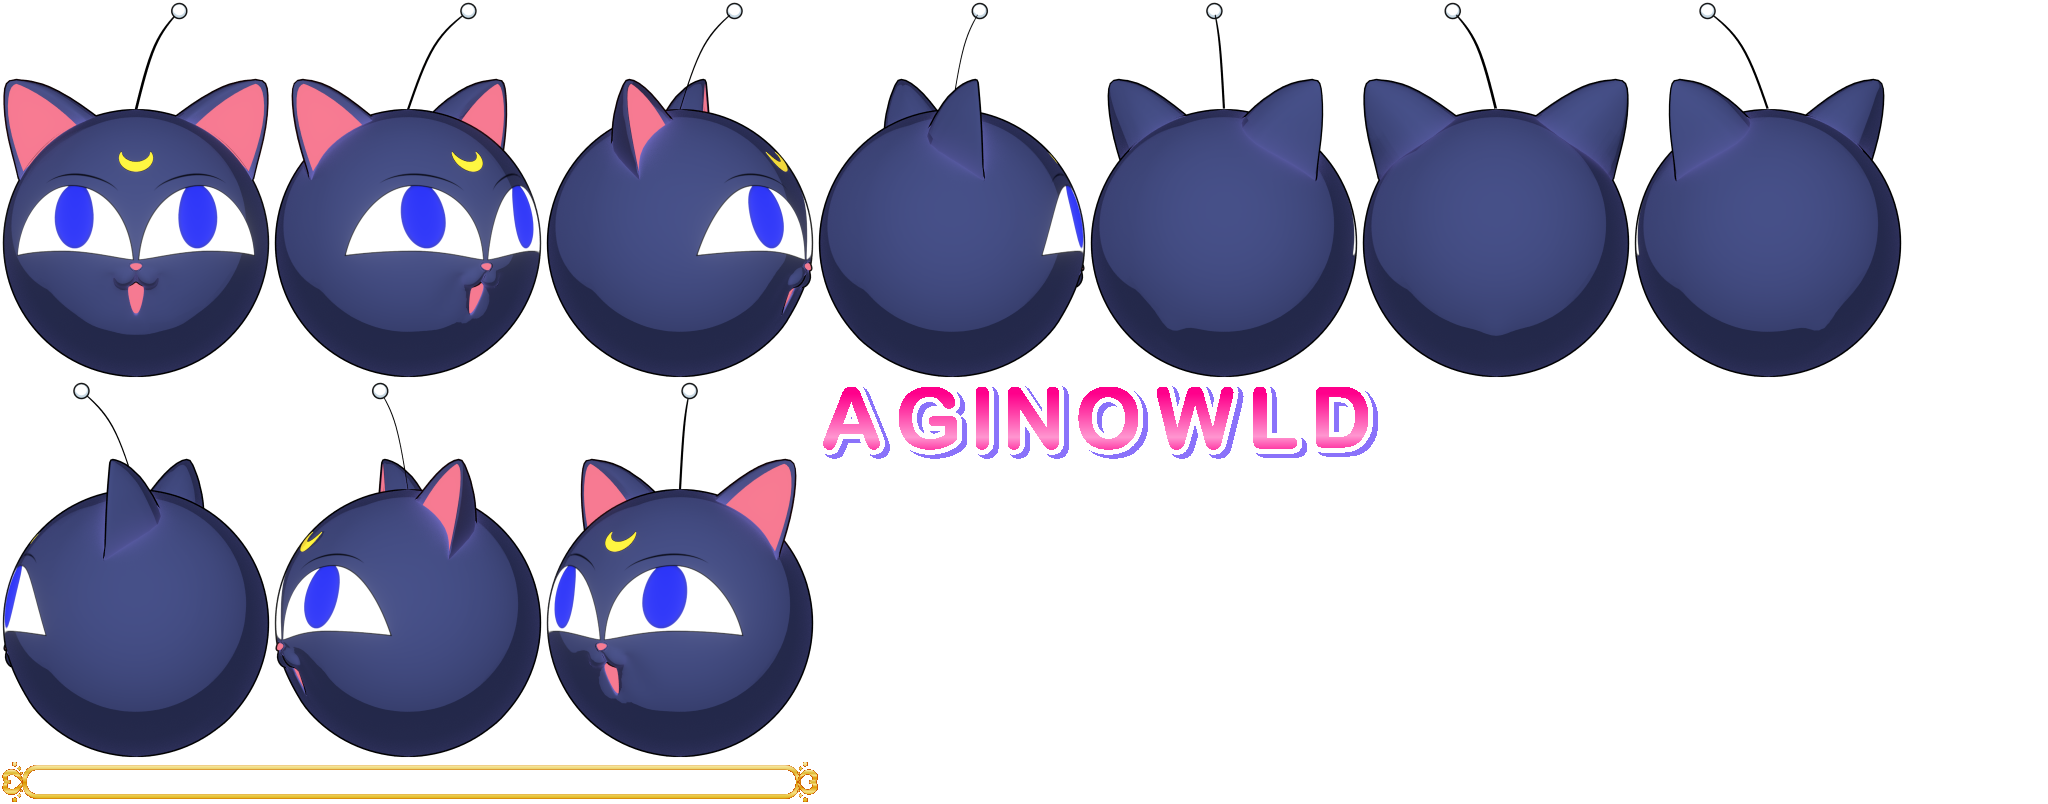
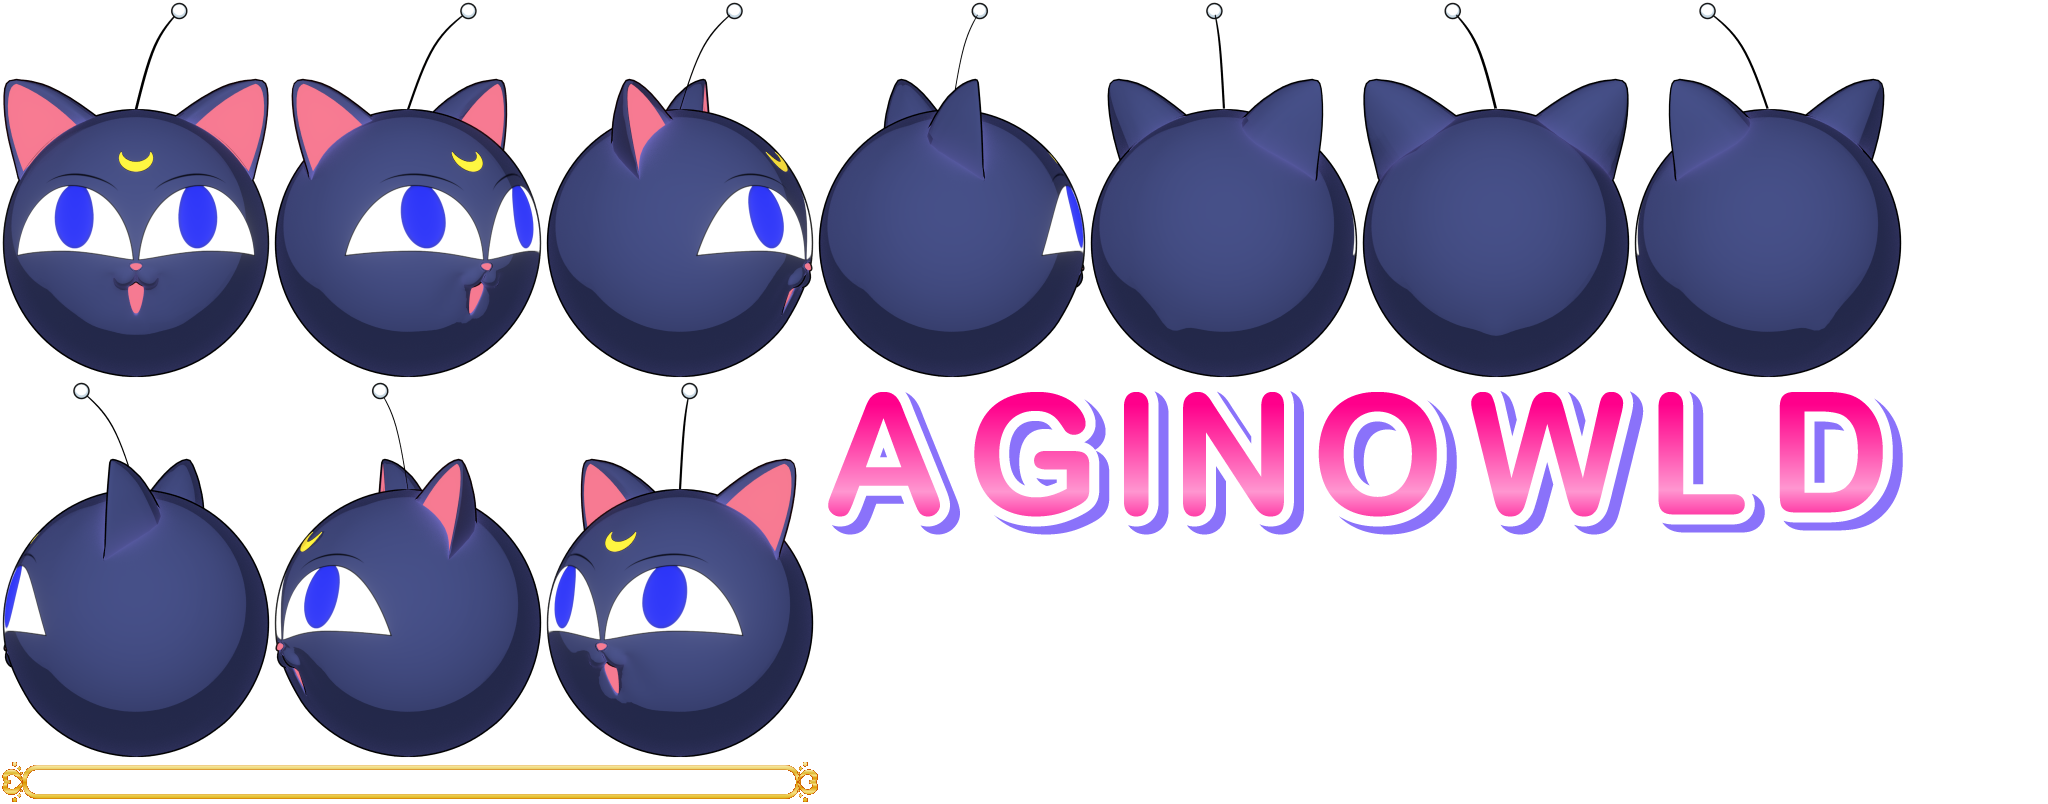
0.23.73 White loading page, 2x letters and centered progress

Changed region(s): [[0.4062, 0.4664, 0.9375, 0.6841]]

diff --git a/Engine/loading-screen.js b/Engine/loading-screen.js
@@ -1,35 +1,35 @@
-import {letterBouncePose} from './letter-animation.js?v=02372';
+import {letterBouncePose} from './letter-animation.js?v=02373';
 
 let assetsPromise;
 export function preloadLoadingAssets(){
- if(!assetsPromise)assetsPromise=fetch(new URL('../Data/Loading/loading-atlas.json?v=02372',import.meta.url)).then(response=>{if(!response.ok)throw Error('Loading artwork HTTP '+response.status);return response.json()}).then(async config=>{const image=new Image();image.src=new URL('../Data/Loading/'+config.atlas+'?v=02372',import.meta.url).href;await image.decode();const atlas=await createImageBitmap(image),staging=document.createElement('canvas');staging.width=config.size[0];staging.height=config.size[1];staging.getContext('2d').drawImage(atlas,0,0);return {config,atlas}});
+ if(!assetsPromise)assetsPromise=fetch(new URL('../Data/Loading/loading-atlas.json?v=02373',import.meta.url)).then(response=>{if(!response.ok)throw Error('Loading artwork HTTP '+response.status);return response.json()}).then(async config=>{const image=new Image();image.src=new URL('../Data/Loading/'+config.atlas+'?v=02373',import.meta.url).href;await image.decode();const atlas=await createImageBitmap(image),staging=document.createElement('canvas');staging.width=config.size[0];staging.height=config.size[1];staging.getContext('2d').drawImage(atlas,0,0);return {config,atlas}});
  return assetsPromise;
 }
 
-export function loadingLetterPose(tick,index,duration=58){return letterBouncePose(tick-index*duration,duration)}
+export function loadingLetterPose(tick,index,duration=58){const age=tick-index*duration;if(age<0||age>=duration)return {alpha:1,y:0};return {alpha:1,y:letterBouncePose(age,duration).y-36*Math.max(0,1-age/22)}}
 
 export function createLoadingScreen(parent=document.body,id='palaceLoading'){
- const view=document.createElement('section');view.id=id;view.hidden=true;view.style.cssText='position:fixed;inset:0;z-index:90;background:#000;color:#fff;display:none;touch-action:none';view.setAttribute('aria-label','Loading');view.setAttribute('aria-busy','true');
+ const view=document.createElement('section');view.id=id;view.hidden=true;view.style.cssText='position:fixed;inset:0;z-index:90;background:#fff;color:#222;display:none;touch-action:none';view.setAttribute('aria-label','Loading');view.setAttribute('aria-busy','true');
  const canvas=document.createElement('canvas');canvas.style.cssText='position:absolute;inset:0;width:100%;height:100%;pointer-events:none';view.appendChild(canvas);const context=canvas.getContext('2d');
  const content=document.createElement('div');content.style.cssText='position:absolute;width:1280px;height:720px;transform-origin:0 0;pointer-events:none';view.appendChild(content);
  const label=document.createElement('div');label.textContent='NOW LOADING';label.setAttribute('role','status');content.appendChild(label);
  const bar=document.createElement('div');bar.style.cssText='position:absolute;width:1px;height:1px;overflow:hidden;clip-path:inset(50%)';bar.setAttribute('role','progressbar');bar.setAttribute('aria-label','Loading progress');bar.setAttribute('aria-valuemin','0');bar.setAttribute('aria-valuemax','100');content.appendChild(bar);
  const fill=document.createElement('div');fill.style.cssText='height:100%;width:0%;background:#FF3EA7';bar.appendChild(fill);
- const percentage=document.createElement('div');percentage.style.cssText='position:absolute;left:640px;top:520px;transform:translateX(-50%);font:16px system-ui;color:white';percentage.setAttribute('aria-hidden','true');content.appendChild(percentage);
+ const percentage=document.createElement('div');percentage.style.cssText='position:absolute;left:640px;top:480px;transform:translate(-50%,-50%);font:bold 16px system-ui;color:#222';percentage.setAttribute('aria-hidden','true');content.appendChild(percentage);
  const exit=document.createElement('button');exit.textContent='返回';exit.hidden=true;exit.style.cssText='position:absolute;left:640px;top:600px;transform:translateX(-50%);border:1px solid #777;background:#000;color:#fff;padding:8px 20px;pointer-events:auto';content.appendChild(exit);
  const testControls=document.createElement('div');testControls.hidden=true;testControls.style.cssText='position:absolute;right:20px;top:20px;pointer-events:auto';content.appendChild(testControls);
  const reload=document.createElement('button');reload.id=id+'Reload';reload.textContent='重新載入';reload.style.cssText='display:block;width:150px;margin-bottom:10px;padding:9px;border:1px solid #ff3ea7;border-radius:6px;background:#15101b;color:white;font:16px system-ui';testControls.appendChild(reload);
  const confirm=document.createElement('button');confirm.id=id+'Confirm';confirm.textContent='確定';confirm.style.cssText=reload.style.cssText;testControls.appendChild(confirm);parent.appendChild(view);
  let assets,progress=0,tick=0,lastFrame,animationFrame,test=false,onExit;
  const ready=preloadLoadingAssets().then(value=>{assets=value;if(!view.hidden)render();return value});ready.catch(error=>{if(!view.hidden)fail(error)});
- function resize(){const ratio=devicePixelRatio||1,width=Math.round(innerWidth*ratio),height=Math.round(innerHeight*ratio);if(canvas.width!==width||canvas.height!==height){canvas.width=width;canvas.height=height}const scale=Math.min(innerWidth/1280,innerHeight/720),left=(innerWidth-1280*scale)/2,top=(innerHeight-720*scale)/2;content.style.left=left+'px';content.style.top=top+'px';content.style.transform='scale('+scale+')';context.setTransform(ratio,0,0,ratio,0,0);context.fillStyle='#000';context.fillRect(0,0,innerWidth,innerHeight);context.translate(left,top);context.scale(scale,scale)}
+ function resize(){const ratio=devicePixelRatio||1,width=Math.round(innerWidth*ratio),height=Math.round(innerHeight*ratio);if(canvas.width!==width||canvas.height!==height){canvas.width=width;canvas.height=height}const scale=Math.min(innerWidth/1280,innerHeight/720),left=(innerWidth-1280*scale)/2,top=(innerHeight-720*scale)/2;content.style.left=left+'px';content.style.top=top+'px';content.style.transform='scale('+scale+')';context.setTransform(ratio,0,0,ratio,0,0);context.fillStyle='#fff';context.imageSmoothingEnabled=true;context.imageSmoothingQuality='high';context.fillRect(0,0,innerWidth,innerHeight);context.translate(left,top);context.scale(scale,scale)}
  function sprite(name,x,y,scale=1){const entry=assets.config.sprites[name];context.drawImage(assets.atlas,entry.x,entry.y,entry.w,entry.h,x-entry.originalSize[0]*scale/2+entry.crop[0]*scale,y-entry.originalSize[1]*scale/2+entry.crop[1]*scale,entry.w*scale,entry.h*scale)}
- function render(atTick=tick){resize();if(!assets)return;const config=assets.config;context.save();context.beginPath();context.rect(0,0,1280,720);context.clip();const luna=config.luna,frame=luna.frames[Math.floor(atTick/luna.frameTicks)%luna.frames.length],lunaSprite=config.sprites[frame];sprite(frame,luna.x,luna.y,luna.height/lunaSprite.originalSize[1]);const entry=config.sprites[config.bar.sprite],width=entry.originalSize[0]-config.bar.insetX*2,height=entry.originalSize[1]-config.bar.insetY*2,left=config.bar.x-width/2,top=config.bar.y-height/2;context.save();context.beginPath();context.roundRect(left,top,width,height,height/2);context.clip();context.fillStyle=config.bar.color;context.fillRect(left,top,width*progress,height);context.restore();sprite(config.bar.sprite,config.bar.x,config.bar.y);for(const [index,letter] of config.letters.entries()){const pose=loadingLetterPose(atTick,index,config.letterDuration);if(!pose.alpha)continue;context.save();context.globalAlpha=pose.alpha;sprite(letter.sprite,letter.x,letter.y+pose.y);context.restore()}context.restore()}
+ function render(atTick=tick){resize();if(!assets)return;const config=assets.config;context.save();context.beginPath();context.rect(0,0,1280,720);context.clip();const luna=config.luna,frame=luna.frames[Math.floor(atTick/luna.frameTicks)%luna.frames.length],lunaSprite=config.sprites[frame];sprite(frame,luna.x,luna.y,luna.height/lunaSprite.originalSize[1]);const entry=config.sprites[config.bar.sprite],width=config.bar.endX-config.bar.startX,height=entry.originalSize[1]-config.bar.insetY*2,left=config.bar.startX,top=config.bar.y-height/2;context.save();context.beginPath();context.roundRect(left,top,width,height,height/2);context.clip();context.fillStyle=config.bar.color;context.fillRect(left,top,width*progress,height);context.restore();sprite(config.bar.sprite,config.bar.x,config.bar.y);for(const [index,letter] of config.letters.entries()){const pose=loadingLetterPose(atTick,index,config.letterDuration);if(!pose.alpha)continue;context.save();context.globalAlpha=pose.alpha;sprite(letter.sprite,letter.x,letter.y+pose.y,letter.scale);context.restore()}context.restore()}
  function animate(now){if(view.hidden)return;if(document.hidden){lastFrame=undefined;animationFrame=requestAnimationFrame(animate);return}if(assets){tick+=lastFrame===undefined?0:Math.max(0,Math.min(1,(now-lastFrame)*60/1000));if(test)update(tick/assets.config.previewTicks)}lastFrame=now;render();animationFrame=requestAnimationFrame(animate)}
  function update(value){progress=Math.max(progress,Math.min(1,Math.max(0,Number(value)||0)));const percent=Math.floor(progress*100);fill.style.width=percent+'%';percentage.textContent=percent+'%';bar.setAttribute('aria-valuenow',String(percent));if(progress===1)view.setAttribute('aria-busy','false')}
  function show(){cancelAnimationFrame(animationFrame);progress=tick=0;lastFrame=undefined;test=false;onExit=undefined;label.textContent='NOW LOADING';label.style.cssText='position:absolute;width:1px;height:1px;overflow:hidden;clip-path:inset(50%)';exit.hidden=true;testControls.hidden=true;view.hidden=false;view.style.display='block';view.setAttribute('aria-busy','true');update(0);render();animationFrame=requestAnimationFrame(animate)}
  function hide(){cancelAnimationFrame(animationFrame);lastFrame=undefined;test=false;view.hidden=true;view.style.display='none';view.setAttribute('aria-busy','false')}
- function fail(error,back){test=false;testControls.hidden=true;label.textContent='載入失敗，請重新整理';label.title=String(error?.message||error);label.style.cssText='position:absolute;left:640px;top:570px;transform:translateX(-50%);font:18px system-ui;color:white';view.setAttribute('aria-busy','false');onExit=back;exit.hidden=!back}
+ function fail(error,back){test=false;testControls.hidden=true;label.textContent='載入失敗，請重新整理';label.title=String(error?.message||error);label.style.cssText='position:absolute;left:640px;top:570px;transform:translateX(-50%);font:18px system-ui;color:#222';view.setAttribute('aria-busy','false');onExit=back;exit.hidden=!back}
  function showTest(back){show();test=true;onExit=back;testControls.hidden=false}
  function confirmTest(){if(!test)return false;const back=onExit;hide();back?.();return true}
  exit.addEventListener('click',()=>{const back=onExit;hide();back?.()});reload.addEventListener('click',()=>showTest(onExit));confirm.addEventListener('click',confirmTest);

diff --git a/index.html b/index.html
@@ -1,5 +1,5 @@
 <!doctype html><html><head><meta charset="utf-8"><meta name="viewport" content="width=device-width,initial-scale=1,maximum-scale=1,user-scalable=no">
-<title>Prototype 0.23.72 LunaP Loading / Preview</title>
+<title>Prototype 0.23.73 LunaP Loading / Preview</title>
 <style>
 html,body{margin:0;width:100%;height:100%;overflow:hidden;background:#05050d;font-family:system-ui;color:#fff}
 #app{position:fixed;inset:0;z-index:0;pointer-events:none} #app canvas{position:absolute;display:block}
@@ -40,7 +40,7 @@ button{font-size:15px;padding:12px 14px;border-radius:16px;border:1px solid #fff
 body[data-input-mode="keyboard"] #ctrl,body[data-input-mode="keyboard"] #touchAttacks{display:none!important}
 </style>
 <script type="importmap">{"imports":{"three":"https://cdn.jsdelivr.net/npm/three@0.180.0/build/three.module.js","three/addons/":"https://cdn.jsdelivr.net/npm/three@0.180.0/examples/jsm/"}}</script></head>
-<body><div id="app"></div><canvas id="venus"></canvas><canvas id="mars"></canvas><canvas id="collision"></canvas><div id="hud"><b>Prototype 0.23.72 · LunaP Loading / Preview</b><div id="buildid" style="font-size:12px;opacity:.72;margin-top:2px">BUILD loading-preview-02372-20261007-01</div><div id="status">Downloading StageTraining.glb…</div><div id="detail">0 / ? MB</div><div id="pbar"><div id="pfill"></div></div><div id="act">Action 0 · Idle</div></div><div id="debugBtns"><button id="dbgBoxes" aria-label="Toggle collision boxes">□</button><button id="dbgPlay" aria-label="Play">▶</button><button id="dbgPause" aria-label="Pause / step">Ⅱ</button><button id="dbgTrace" aria-label="Export last 10 seconds of combat trace" title="匯出最近 10 秒對戰紀錄">↓</button></div>
+<body><div id="app"></div><canvas id="venus"></canvas><canvas id="mars"></canvas><canvas id="collision"></canvas><div id="hud"><b>Prototype 0.23.73 · LunaP Loading / Preview</b><div id="buildid" style="font-size:12px;opacity:.72;margin-top:2px">BUILD loading-preview-02373-20261007-01</div><div id="status">Downloading StageTraining.glb…</div><div id="detail">0 / ? MB</div><div id="pbar"><div id="pfill"></div></div><div id="act">Action 0 · Idle</div></div><div id="debugBtns"><button id="dbgBoxes" aria-label="Toggle collision boxes">□</button><button id="dbgPlay" aria-label="Play">▶</button><button id="dbgPause" aria-label="Pause / step">Ⅱ</button><button id="dbgTrace" aria-label="Export last 10 seconds of combat trace" title="匯出最近 10 秒對戰紀錄">↓</button></div>
 <div id="ctrl"><div id="touchShoulders"><button id="atkL" class="touchButton" data-action="l" aria-label="L">L</button><button id="atkR" class="touchButton" data-action="r" aria-label="R">R</button></div><div id="stick"><div id="stickKnob"></div></div></div><div id="touchAttacks"><button id="atkA" class="touchButton" data-action="a" aria-label="A attack">A</button><button id="atkB" class="touchButton" data-action="b" aria-label="B attack">B</button><button id="atkX" class="touchButton" data-action="x" aria-label="X attack">X</button><button id="atkY" class="touchButton" data-action="y" aria-label="Y attack">Y</button></div>
 <div id="inputPanel"><label for="inputMode">Input </label><select id="inputMode"><option value="auto">Auto / 自動</option><option value="keyboard">Keyboard / 鍵盤</option><option value="touch">Touch / 觸控</option></select><div id="inputHint" aria-live="polite"></div><label> P2 <select id="p2Guard"><option value="none">不防禦</option><option value="stand">站立防禦</option><option value="crouch">蹲下防禦</option></select></label><label> 控制 <select id="p2Control"><option value="dummy">Dummy / 測試</option><option value="keyboard">Keyboard / Numpad</option></select></label><button id="p2Punch" style="font-size:11px;padding:3px 6px;margin-left:6px;border-radius:4px" title="Numpad0 / 地面單次出拳測試，非 AI">P2 出拳測試</button></div>
 <script type="module">
@@ -52,7 +52,7 @@ import {createRoundFlow} from './Engine/round-flow-runtime.js?v=02366';
 import {createResultStateWatchdog} from './Engine/result-state-watchdog.js?v=02365';
 const resultStateWatchdog=createResultStateWatchdog();
 import {createRoundView} from './Engine/round-flow-view.js?v=02362';
-import {createPalaceMenu} from './Engine/palace-menu.js?v=02372';
+import {createPalaceMenu} from './Engine/palace-menu.js?v=02373';
 import {abilityProfile,abilityDamage,abilityBudget} from './Engine/ability-system.js?v=acs1';
 let battleAbilities=[abilityProfile(),abilityProfile()];
 const fightHud=createFightHud();fightHud.ready.catch(error=>showRuntimeError(error));
@@ -110,7 +110,7 @@ status.textContent='Downloading StageTraining.glb… 0.0%';detail.textContent='0
 const res=await fetch(assetUrl('./StageTraining.glb'),{cache:'default'});if(!res.ok)throw new Error('HTTP '+res.status);let buffer;
 if(res.body&&res.body.getReader){const reader=res.body.getReader(),chunks=[];let received=0;while(true){const {done,value}=await reader.read();if(done)break;chunks.push(value);received+=value.byteLength;const p=Math.min(100,received/STAGE_BYTES*100);status.textContent='Downloading StageTraining.glb… '+p.toFixed(1)+'%';detail.textContent=(received/1048576).toFixed(1)+' / '+(STAGE_BYTES/1048576).toFixed(1)+' MB';pfill.style.width=p+'%'}const all=new Uint8Array(received);let off=0;for(const ch of chunks){all.set(ch,off);off+=ch.byteLength}buffer=all.buffer}else buffer=await res.arrayBuffer();
 status.textContent='Parsing / preparing GPU…';detail.textContent=(buffer.byteLength/1048576).toFixed(1)+' / '+(STAGE_BYTES/1048576).toFixed(1)+' MB';pfill.style.width='100%';
-new GLTFLoader().parse(buffer,'./',g=>{stageModel=g.scene;g.scene.scale.setScalar(.075);g.scene.position.set(0,-.2,-.9);s.add(g.scene);if(g.animations.length){mix=new THREE.AnimationMixer(g.scene);g.animations.forEach(a=>mix.clipAction(a).play())}status.textContent='READY · 0.23.72 · LunaP Loading / Preview';detail.textContent='camera ±2850 · posMul '+posMul.toFixed(8)+' · player ±4350 · screen margin 60 · zoom '+c.zoom.toFixed(3);resize()},e=>{throw e});
+new GLTFLoader().parse(buffer,'./',g=>{stageModel=g.scene;g.scene.scale.setScalar(.075);g.scene.position.set(0,-.2,-.9);s.add(g.scene);if(g.animations.length){mix=new THREE.AnimationMixer(g.scene);g.animations.forEach(a=>mix.clipAction(a).play())}status.textContent='READY · 0.23.73 · LunaP Loading / Preview';detail.textContent='camera ±2850 · posMul '+posMul.toFixed(8)+' · player ±4350 · screen margin 60 · zoom '+c.zoom.toFixed(3);resize()},e=>{throw e});
 }catch(e){status.textContent='Stage ERROR';detail.textContent=String(e?.message||e)}} loadStage();
 const cv=document.querySelector('#venus'),ctx=cv.getContext('2d');let atlas,dat,stateIR,current=0,fi=0,ticks=0,attackAtlas,attackDat;
 let turnAtlas,turnDat,p1TurnTime=0,p2TurnTime=0,specialDat;
@@ -1500,7 +1500,7 @@ function combatTraceSnapshot(){
 function combatTraceExport(){
  const frames=[];
  for(let offset=combatTraceCount;offset>0;offset--)frames.push(combatTraceFrames[(combatTraceTick-offset)%combatTraceCapacity]);
- return {schema:'palace-combat-trace-v1',version:'0.23.72',build:'title-settings-02372-20261006-01',tickRate:60,capacity:combatTraceCapacity,
+ return {schema:'palace-combat-trace-v1',version:'0.23.73',build:'title-settings-02372-20261006-01',tickRate:60,capacity:combatTraceCapacity,
   firstTick:frames[0]?.tick??null,lastTick:frames.at(-1)?.tick??null,droppedTicks:combatTraceTick-combatTraceCount,
   purpose:'Diagnostic trace only; not a replay save',source:battleDat?.source??null,frames};
 }
@@ -1508,7 +1508,7 @@ function commandBufferSnapshot(player){return (playerCommandLists[player]?.comma
 document.querySelector('#dbgTrace').addEventListener('click',()=>{
  const blob=new Blob([JSON.stringify(combatTraceExport(),null,2)],{type:'application/json'});
  const url=URL.createObjectURL(blob),link=document.createElement('a');
- link.href=url;link.download='palace-0.23.72-trace.json';link.click();setTimeout(()=>URL.revokeObjectURL(url),1000);
+ link.href=url;link.download='palace-0.23.73-trace.json';link.click();setTimeout(()=>URL.revokeObjectURL(url),1000);
  document.querySelector('#dbgTrace').blur();
 });
 function simStep(){

diff --git a/Engine/palace-menu.js b/Engine/palace-menu.js
@@ -1,11 +1,11 @@
 import {assetUrl} from './asset-paths.js?v=02362';
 import {createTitleStage} from '../Stage/Title/title-stage.js?v=02369';
 import {createLogoIntro} from '../Data/Logo/logo-intro.js?v=02372';
-import {createSelectScreen} from './select-screen.js?v=02372';
+import {createSelectScreen} from './select-screen.js?v=02373';
 import {createResultDeclarationScreen} from './result-declaration-screen.js?v=declaration5';
 import {createAcsScreen} from './acs-screen.js?v=02369';
 import {createMenuEntrance} from './menu-entrance.js?v=02370';
-import {createLoadingScreen} from './loading-screen.js?v=02372';
+import {createLoadingScreen} from './loading-screen.js?v=02373';
 
 import {createTitlePresentation} from './title-presentation.js?v=02370';
 

diff --git a/Engine/select-screen.js b/Engine/select-screen.js
@@ -1,5 +1,5 @@
 import {assetUrl} from './asset-paths.js?v=02362';
-import {createLoadingScreen} from './loading-screen.js?v=02372';
+import {createLoadingScreen} from './loading-screen.js?v=02373';
 export function createSelectScreen(parent,api){
  const view=document.createElement('section');view.id='palaceSelection';view.hidden=true;view.style.cssText='position:absolute;inset:0;background:#05050d;z-index:2';parent.appendChild(view);
  const canvas=document.createElement('canvas');canvas.style.cssText='position:absolute;inset:0;width:100%;height:100%;z-index:1;pointer-events:none';view.appendChild(canvas);const context=canvas.getContext('2d');

diff --git a/Tools/export_loading_atlas.py b/Tools/export_loading_atlas.py
@@ -36,11 +36,11 @@ letters = 'NOWLOADING'
 locations = [465.75, 530.9028, 604.5869, 692.832, 744.7988,
              805.0508, 867.6611, 910.6455, 955.6807, 1020.4033]
 config = {'atlas': 'loading-atlas.webp', 'size': [width, height], 'sprites': sprites,
-          'letters': [{'sprite': letter, 'x': position_x, 'y': 355.4456}
+          'letters': [{'sprite': letter, 'x': position_x, 'y': 355.4456, 'scale': .5}
                       for letter, position_x in zip(letters, locations)],
           'letterDuration': 58,
           'bar': {'sprite': 'LoadingBar', 'x': 640, 'y': 480, 'color': '#FF3EA7',
-                  'insetX': 23, 'insetY': 6},
+                  'startX': 257, 'endX': 1026, 'insetY': 4},
           'luna': {'frames': [f'00600{index}' for index in range(10)],
                    'x': 299, 'y': 340, 'height': 630, 'frameTicks': 6},
           'previewTicks': 720}

diff --git a/README.md b/README.md
@@ -1,4 +1,8 @@
-# 0.23.72 — LunaP Loading 測試頁
+# 0.23.73 — Loading 白底／高清字母
+
+百分比置中進度條、填滿 X257–1026；2x 字母半尺寸顯示，全字常駐逐字跳彈。
+
+## 0.23.72 — LunaP Loading 測試頁
 
 19 圖合併 WebP 圖集、逐字 NOW LOADING、LunaP 6 TICK；與 LOGO 預載，新增重載／確定測試頁。
 
